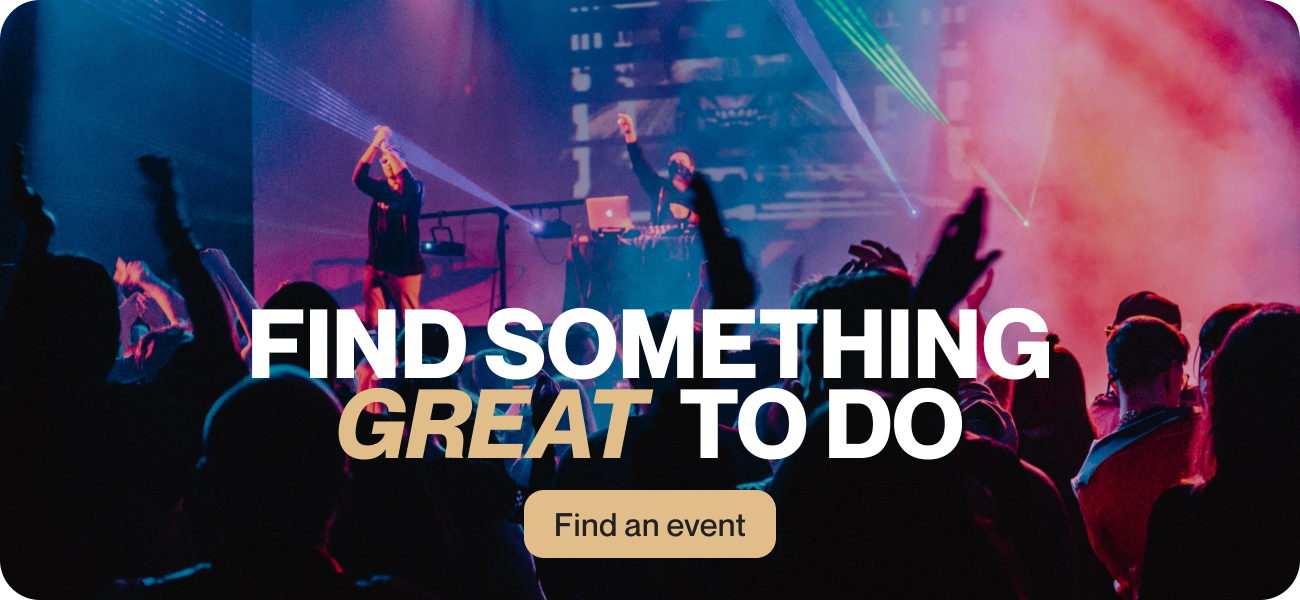
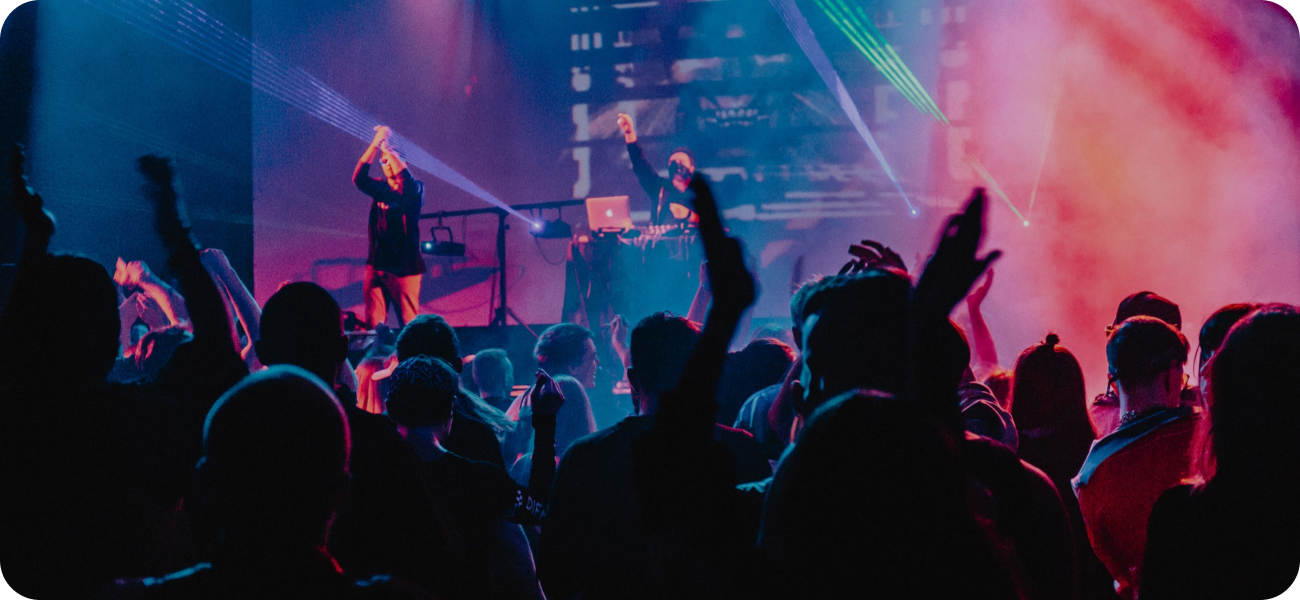
feat:added hero section component

Changed region(s): [[0.1846, 0.51, 0.8308, 0.78], [0.4, 0.81, 0.6154, 0.93]]

diff --git a/src/components/Home/HeroSection/HeroSection.tsx b/src/components/Home/HeroSection/HeroSection.tsx
@@ -1,0 +1,28 @@
+"use client";
+
+import HomeImage from "@/assets/img/HomeImage.png";
+import AppButton from "@/components/UI/Button/AppButton";
+
+const HeroSection = () => {
+  return (
+    <div
+      style={{ backgroundImage: `url(${HomeImage.src})` }}
+      className="relative flex items-center justify-center h-[600px] w-[85vw] rounded-3xl bg-no-repeat bg-cover bg-center mx-auto mb-10"
+    >
+      <div className="absolute w-[70%] bottom-16 text-center">
+        <h1 className=" font-bold text-7xl text-center">
+          FIND SOMETHING <span className="text-[#E1BD8A] italic">GREAT</span> TO
+          DO
+        </h1>
+
+        <AppButton
+          btnText="Find an event"
+          className="relative mt-5 text-2xl"
+          handleClick={() => alert("Find event!")}
+        />
+      </div>
+    </div>
+  );
+};
+
+export default HeroSection;

diff --git a/src/components/Home/Home.tsx b/src/components/Home/Home.tsx
@@ -1,22 +1,16 @@
-import Image from "next/image";
-import HomeImage from "@/assets/img/HomeImage.png";
 import Clubs from "./Clubs/Clubs";
 import Recommendations from "./Recommendations/Recommendations";
 import FriendlySpots from "./FriendlySpots/FriendlySpots";
-import Category from "./Category/Category";
-import Location from "./Location/Location";
-import Ratings from "./Ratings/Ratings";
 import Filtering from "./Filtering/Filtering";
+import HeroSection from "./HeroSection/HeroSection";
 
 const Home = () => {
   return (
     <main className="pt-8">
-      <Image
-        src={HomeImage}
-        alt="home image"
-        className="mb-12 w-[90vw] h-auto mx-auto"
-      />
+      {/* hero section */}
+      <HeroSection />
 
+      {/* filtering */}
       <Filtering />
 
       {/* clubs */}

diff --git a/src/app/globals.css b/src/app/globals.css
@@ -2,6 +2,7 @@
 @tailwind components;
 @tailwind utilities;
 
+
 @layer base {
   * {
     padding: 0;
